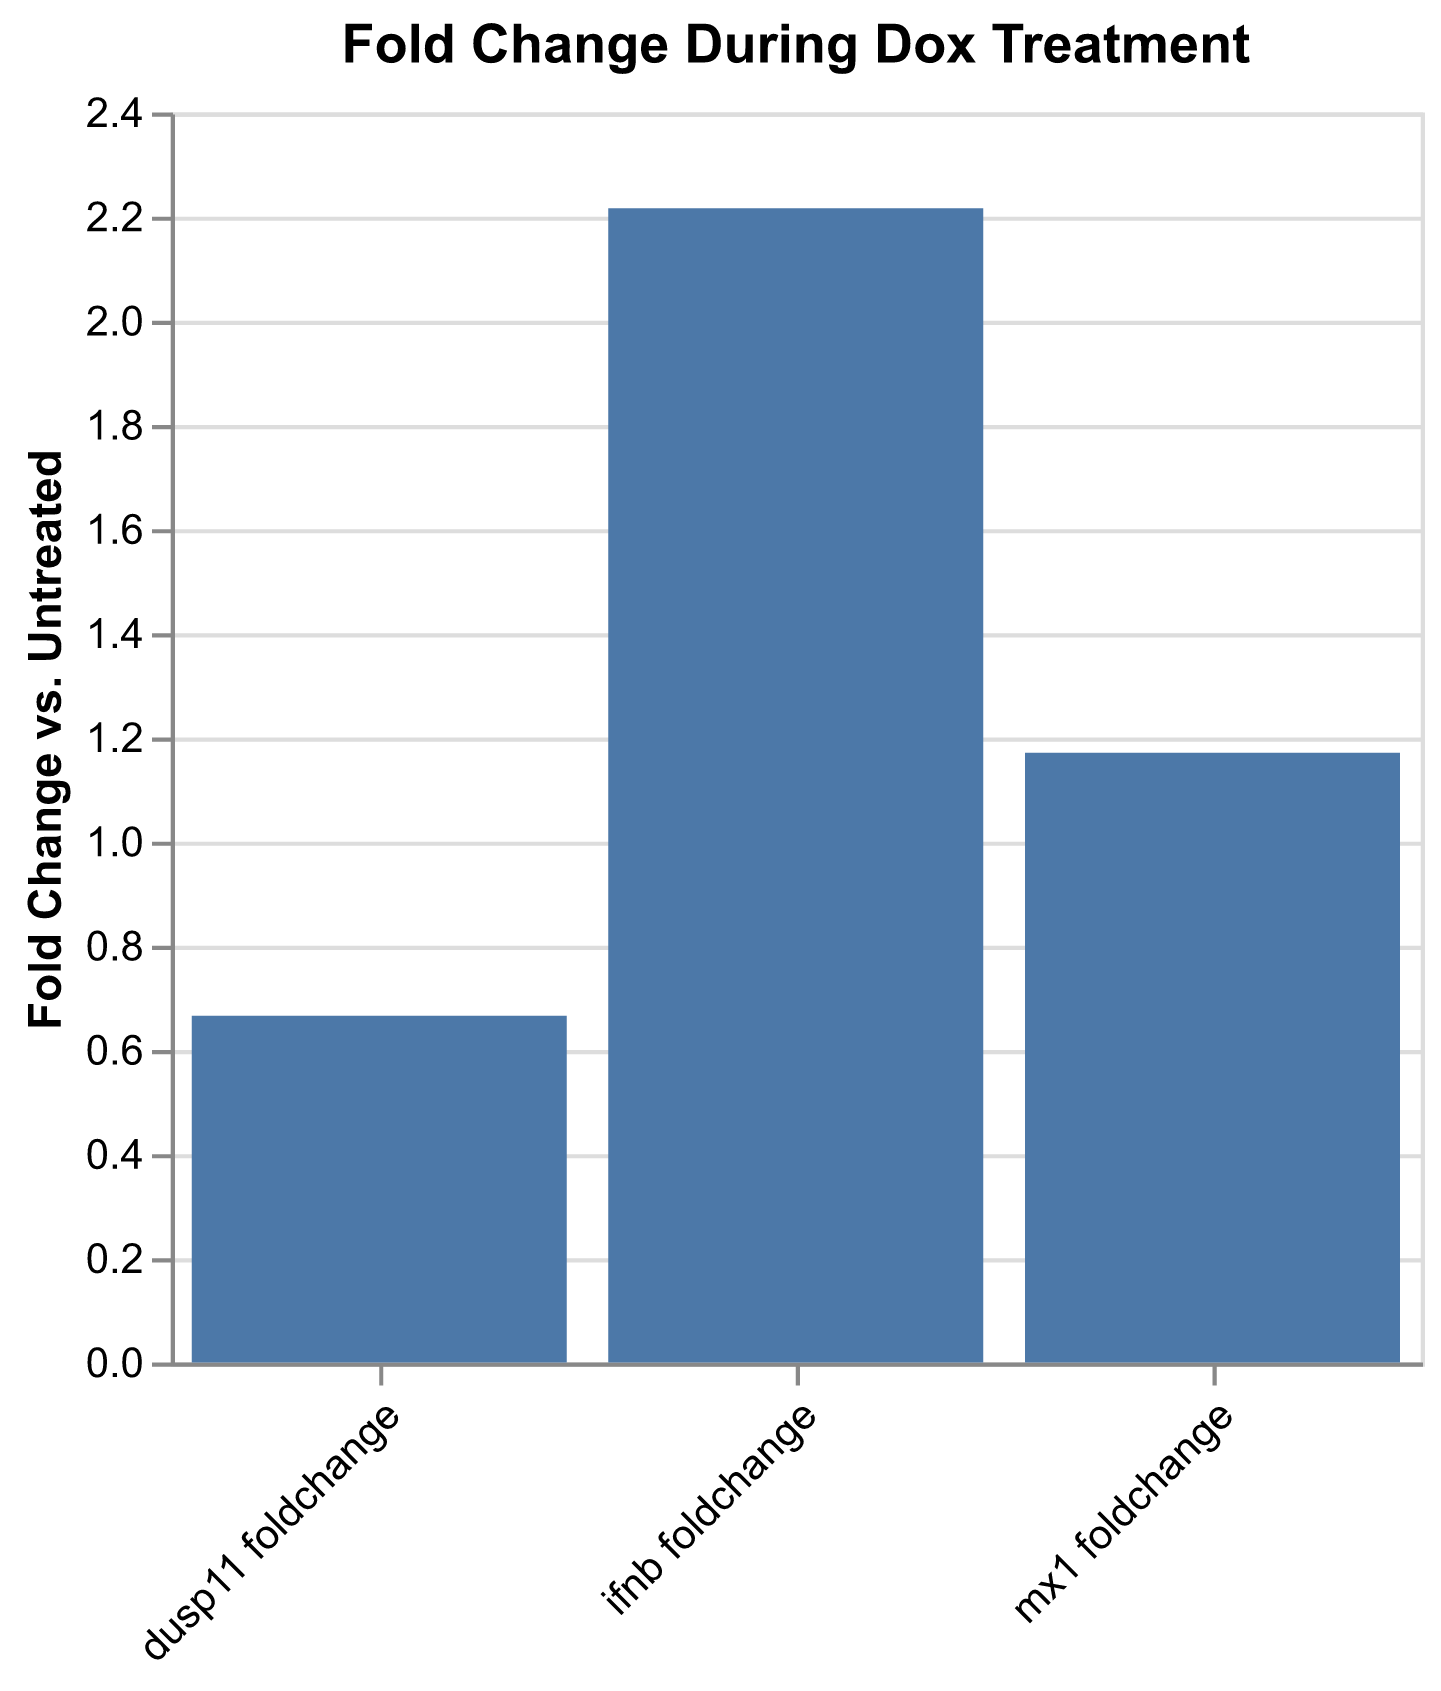
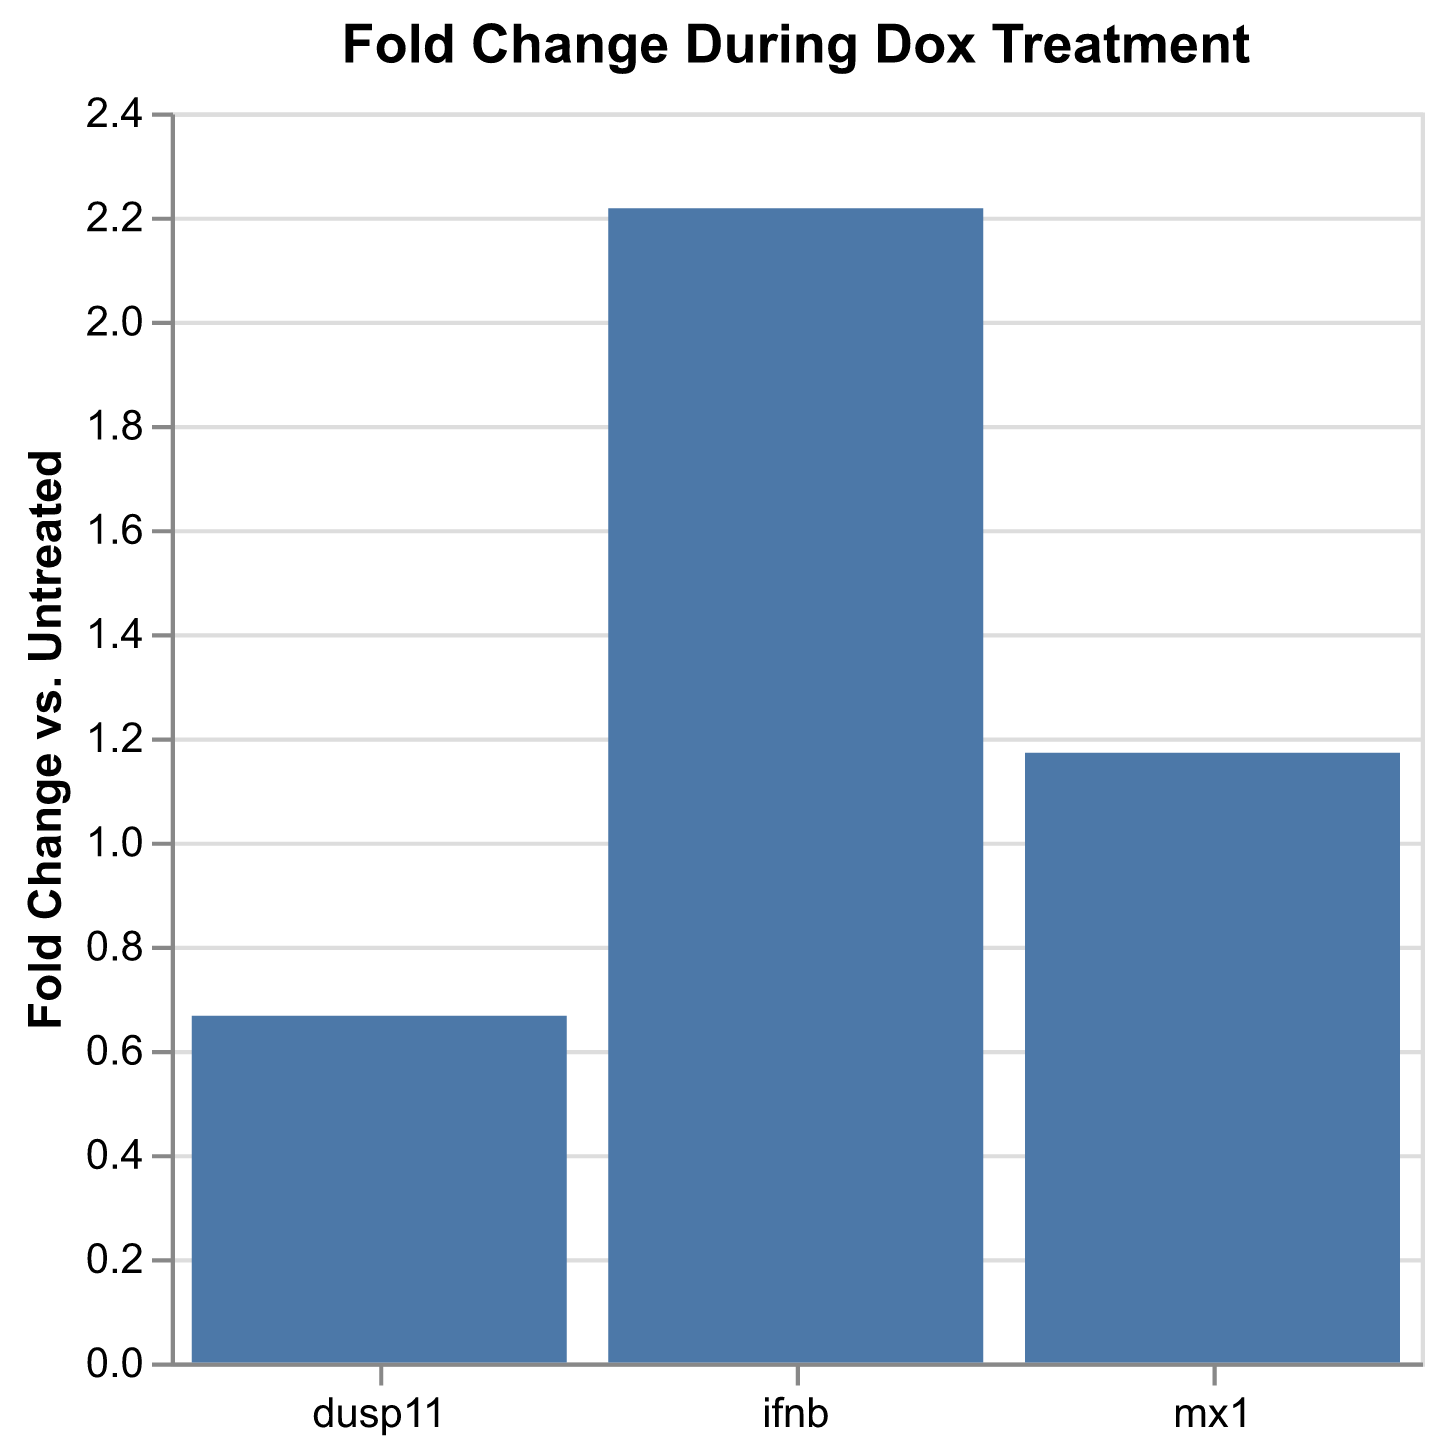
Fix label angle in plot axes

diff --git a/TN042/TN042.3.py b/TN042/TN042.3.py
@@ -112,11 +112,12 @@ for key, ddct in ddct_results_dox.items():
 ddct_df_dox = ddct_df_dox.melt(var_name="Condition", value_name="ddCT")
 ddct_df_dox.to_excel("ddct_dox.xlsx")
 foldchange_df_dox = foldchange_df_dox.melt(var_name="Condition", value_name="Fold Change")
+foldchange_df_dox["Condition"] = foldchange_df_dox["Condition"].str.split("foldchange").str[0]
 foldchange_df_dox.to_excel("foldchange_dox.xlsx")
 
 title = alt.TitleParams("Fold Change During Infection", anchor="middle")
 ix_plot = alt.Chart(foldchange_df_ix, title = title).mark_bar().encode(
-    alt.X("Condition", title="", axis=alt.Axis(labelAngle=-45)),
+    alt.X("Condition", title="", axis=alt.Axis(labelAngle=0)),
     alt.Y("Fold Change", title="Fold Change vs. Mock Infected"),
     xOffset=alt.XOffset("dox:N"),
     color = alt.Color("dox").title("Dox Treatment"),
@@ -124,7 +125,7 @@ ix_plot = alt.Chart(foldchange_df_ix, title = title).mark_bar().encode(
 ix_plot.save("ix_plot.png", ppi=300)
 
 dox_plot = alt.Chart(foldchange_df_dox, title = "Fold Change During Dox Treatment").mark_bar().encode(
-    alt.X("Condition", title="", axis=alt.Axis(labelAngle=-45)),
+    alt.X("Condition", title="", axis=alt.Axis(labelAngle=0)),
     alt.Y("Fold Change", title="Fold Change vs. Untreated")
 ).properties(width=300)
 dox_plot.save("dox_plot.png", ppi=300)
